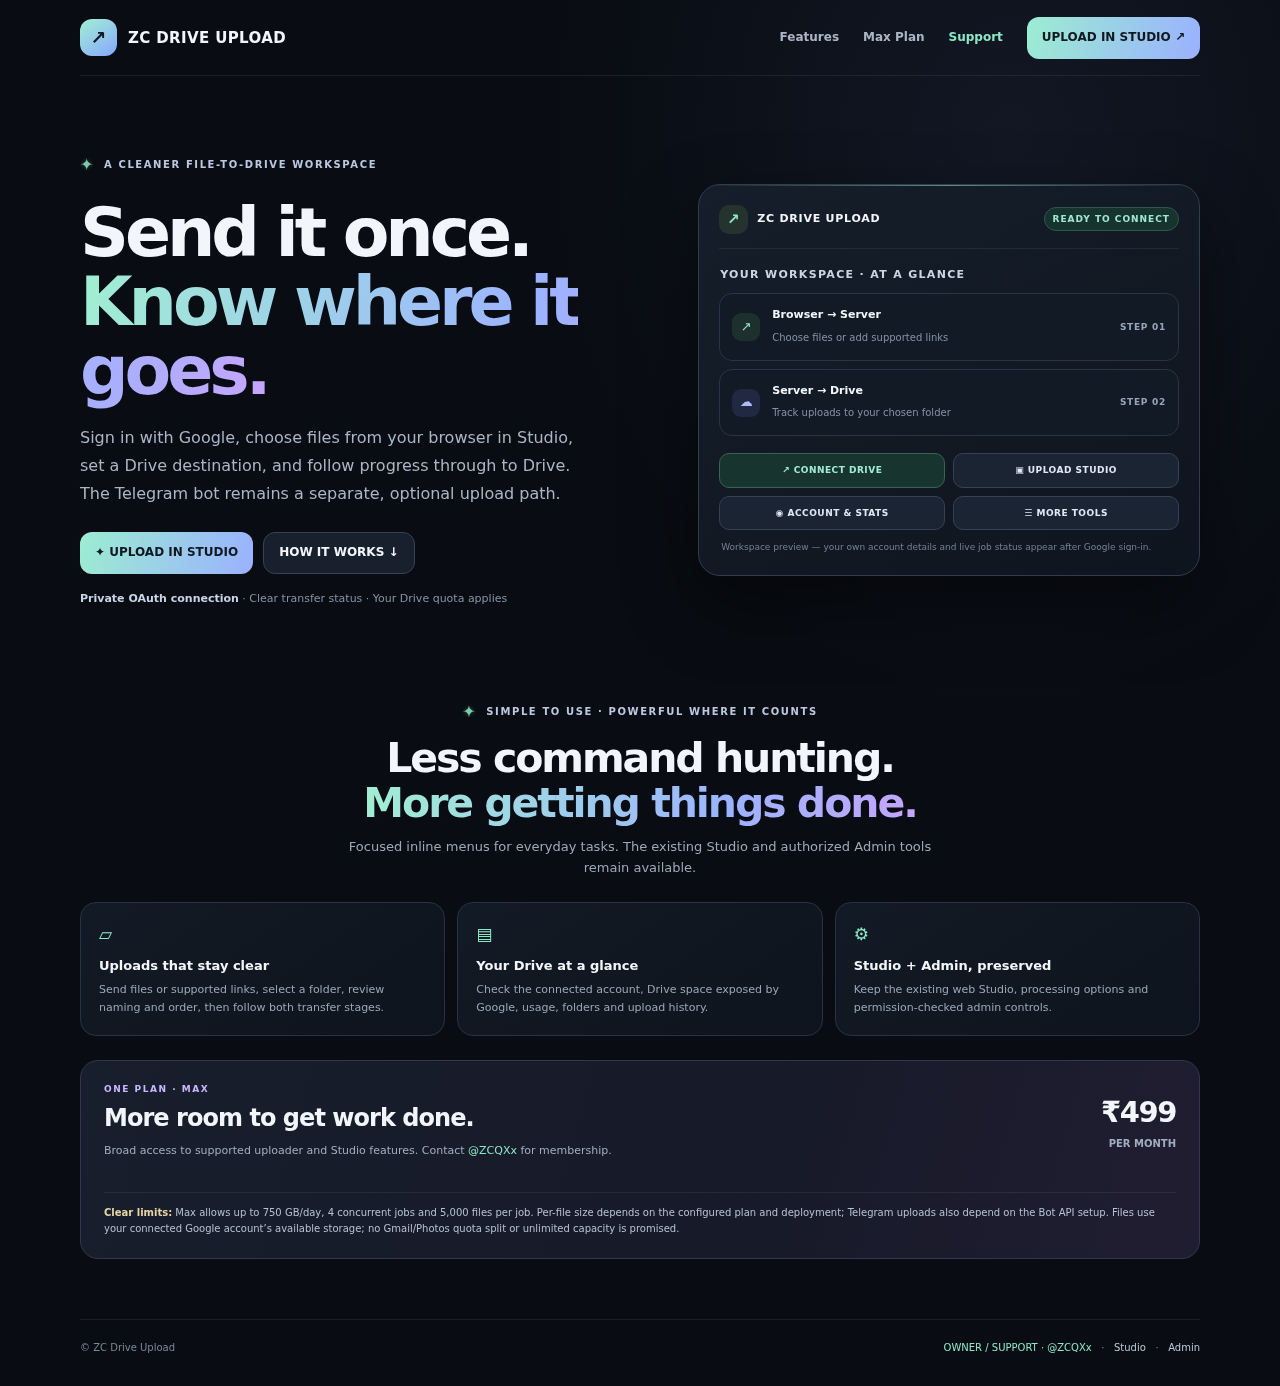
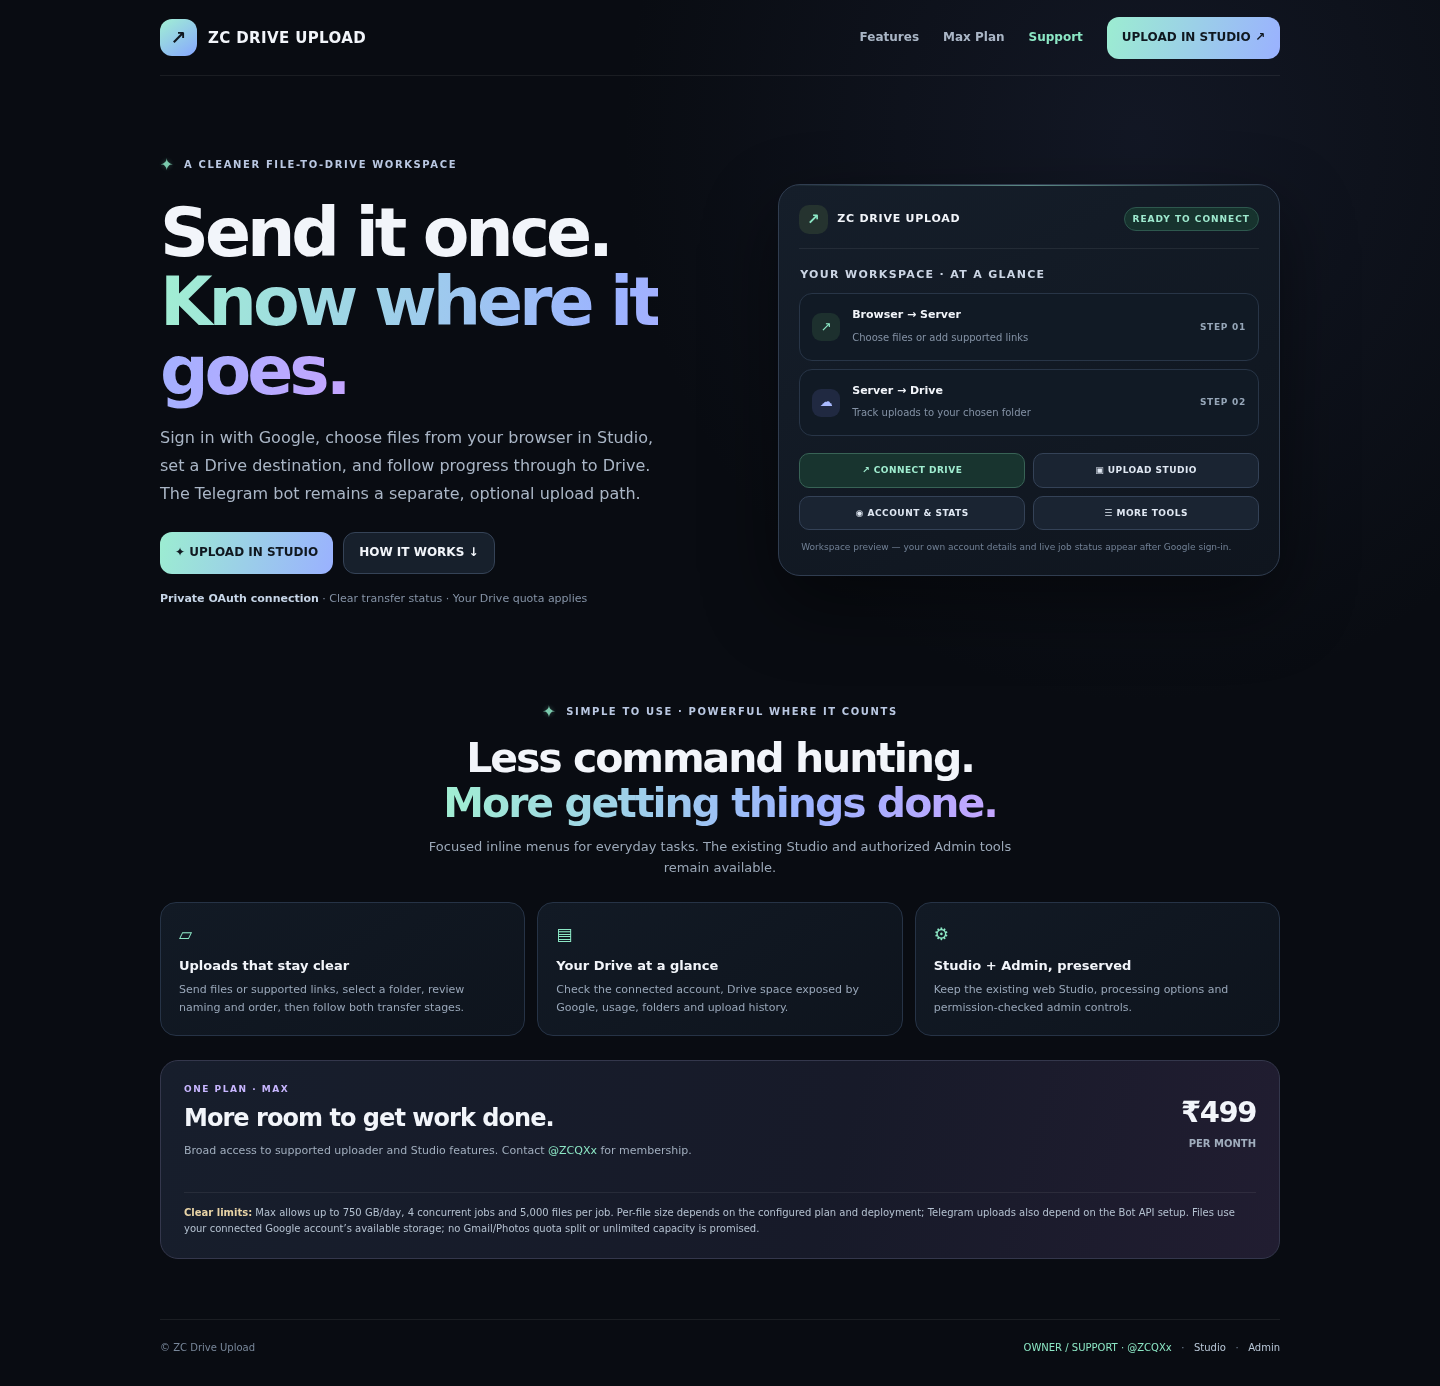
Rebuild from ZC-Drive-Uploader-Private-Studio-v13: / opens Studio, public page moved to /home

diff --git a/driveup/web/app.py b/driveup/web/app.py
@@ -166,14 +166,18 @@ def create_app(*, db, cfg: Settings, bot, worker, accounts, access, hub=None,
             return RedirectResponse("/auth/google/start", status_code=303)
         return RedirectResponse("/auth/google/login", status_code=303)
 
-    @app.get("/", response_class=HTMLResponse)
-    async def index(request: Request):
-        """Public ZC DriveUp homepage, styled after the user's supplied design."""
+    @app.get("/")
+    async def index():
+        """The primary website opens the Studio; authentication protects its data."""
+        return RedirectResponse("/studio", status_code=307)
+
+    @app.get("/home", response_class=HTMLResponse)
+    async def public_home():
+        """Optional public product/plan information; it never contains private data."""
         home = STATIC / "home.html"
         if not home.exists():
             return HTMLResponse(f"<h1>{html.escape(BRAND_NAME)}</h1><a href='/studio'>Open Studio</a>")
-        # Public CTA begins the bot-free Google OAuth login; no Telegram deep-link is needed.
-        body = home.read_text(encoding="utf-8").replace("{{BOT_LINK}}", "/auth/google/login")
+        body = home.read_text(encoding="utf-8").replace("{{BOT_LINK}}", "/studio")
         return HTMLResponse(body, status_code=200)
 
     @app.get("/studio", response_class=HTMLResponse)
@@ -193,8 +197,8 @@ def create_app(*, db, cfg: Settings, bot, worker, accounts, access, hub=None,
               <h1>{html.escape(BRAND_NAME)} Studio</h1>
               <p>Sign in with Google to connect your Drive and open the Studio. You can use the website directly; Telegram is optional.</p>
               <p><a class="btn primary" href="/auth/google/login">Continue with Google Drive</a></p>
-              <p class="hint">Your files remain in the Google account you authorize. The connected Drive quota and service limits still apply.</p>
-              <p><a href="/">Back to ZC Drive Upload</a></p>
+              <p class="hint">Your workspace is tied to your sign-in. Other regular users cannot access your jobs or files; authorized admin roles retain service tools. Google Drive quota and service limits apply.</p>
+              <p><a href="/home">About ZC Drive Upload</a></p>
             </div></div></body></html>"""
             return HTMLResponse(html_body, status_code=200)
         return HTMLResponse((STATIC / "index.html").read_text(encoding="utf-8"))

diff --git a/driveup/tests/test_web.py b/driveup/tests/test_web.py
@@ -109,14 +109,15 @@ async def make_job(web, user_id: int = 55, files=(("a.bin", b"1234"),)) -> str:
 
 
 # ── public pages and auth ──────────────────────────────────────────────────
-async def test_homepage_is_public_and_studio_is_separate(web):
-    r = await web["client"].get("/")
-    assert r.status_code == 200
-    assert "UPLOAD IN STUDIO" in r.text
-    assert 'href="/studio"' in r.text
-    assert "private user" not in r.text.lower()
+async def test_root_opens_studio_and_public_home_is_separate(web):
+    r = await web["client"].get("/", follow_redirects=False)
+    assert r.status_code == 307 and r.headers["location"] == "/studio"
+    home = await web["client"].get("/home")
+    assert home.status_code == 200 and "UPLOAD IN STUDIO" in home.text
+    assert 'href="/studio"' in home.text
     studio = await web["client"].get("/studio")
     assert "Continue with Google Drive" in studio.text
+    assert "Other regular users cannot access your jobs or files" in studio.text
 
 
 async def test_no_session_is_rejected(web):
@@ -554,11 +555,11 @@ async def test_admin_pages_render(web):
 
 
 async def test_homepage_shows_the_zc_driveup_landing_site(web):
-    r = await web["client"].get("/")
+    r = await web["client"].get("/home")
     assert r.status_code == 200
     assert "ZC DRIVE UPLOAD" in r.text and "Send it once." in r.text
     assert "Browser → Server" in r.text and "Server → Drive" in r.text
-    assert 'href="/auth/google/login"' in r.text
+    assert 'href="/studio"' in r.text
     assert "₹499" in r.text and "up to 750 GB/day" in r.text
     assert "/studio" in r.text and "@ZCQXx" in r.text
 

diff --git a/docs/UI-GUIDE.md b/docs/UI-GUIDE.md
@@ -13,7 +13,7 @@
 Button styling is chosen by action type: green/success for connecting or continuing, primary for normal navigation, and destructive for disconnect/discard/remove. Telegram clients may render button colors only when Bot API styles are supported. Animated emoji are separately feature-gated and only displayed where Telegram supports custom emoji; static emoji remain a fallback.
 
 ## Studio and admin
-The public home page routes to `/studio`; signed-out visitors see the existing Google sign-in action. The Studio itself does not add a password prompt. After sign-in, users can choose files from their browser, review folder/naming/order options, start the existing Drive worker, follow live progress, and open their own past uploads. Large selections are sent in sequential 20-file requests and combined into one job; the configured plan still controls the total files/job and per-file size. Browser files are staged under `DOWNLOAD_DIR/studio`; persistent disk is required for safe retries/recovery across restarts. For manual folder routing, choose “Assign consecutive file batches to folders,” enter unique child folder names and file counts, and make the counts add up to the entire job. The backend stores an explicit item-ID-to-folder plan; the worker creates or reuses those folders under the selected parent. The Studio sends the verified-session user identity to server-side ownership checks; browser-provided user IDs are not used. Admin remains protected by the existing authorization mechanisms.
+The primary `/` route opens `/studio`; signed-out visitors see the existing Google sign-in action. Public product/plan information remains available at `/home`. The Studio itself does not add a password prompt. After sign-in, users can choose files from their browser, review folder/naming/order options, start the existing Drive worker, follow live progress, and open their own past uploads. Large selections are sent in sequential 20-file requests and combined into one job; the configured plan still controls the total files/job and per-file size. Browser files are staged under `DOWNLOAD_DIR/studio`; persistent disk is required for safe retries/recovery across restarts. For manual folder routing, choose “Assign consecutive file batches to folders,” enter unique child folder names and file counts, and make the counts add up to the entire job. The backend stores an explicit item-ID-to-folder plan; the worker creates or reuses those folders under the selected parent. The Studio sends the verified-session user identity to server-side ownership checks; browser-provided user IDs are not used. Admin remains protected by the existing authorization mechanisms.
 
 ## Accessibility and QA
 Use readable labels, meaningful status text, keyboard focus visibility, responsive layout, and progress descriptions rather than box-drawing glyphs. Studio progress receives worker chunk checkpoints over SSE, with fresh database totals as a polling fallback; file intake has its own accessible transfer progress bar. Studio history is fetched from a session-scoped API and contains only the signed-in user's jobs. Test narrow/mobile widths, keyboard navigation, connected/disconnected states, invalid links, expired sessions, empty history, upload limits, staged-file cleanup, and unauthorized/cross-user job access.

diff --git a/DEPLOY-ZC.md b/DEPLOY-ZC.md
@@ -70,7 +70,7 @@ These can also be set from the website Admin → Settings. The bot needs post pe
 
 ## 7. Use the website without opening the bot
 
-1. Open the service root URL (`https://YOUR-RENDER-SERVICE.onrender.com/`) and choose **Sign in with Google**. The browser goes through the same Google OAuth callback configured in Step 3; after consent it returns directly to `/studio` with a secure web session.
+1. Open the service root URL (`https://YOUR-RENDER-SERVICE.onrender.com/`); it opens `/studio`. If signed out, choose **Continue with Google Drive**. After consent the browser returns to the private Studio with a secure web session. Public product/plan information remains at `/home`.
 2. The user can upload files from the browser, choose Drive folders, adjust supported naming/order settings, watch progress, and review their upload history without starting a Telegram chat. Large selections are transferred in 20-file chunks and remain one job; manual batch routing can assign exact file counts to named child folders. Google Drive quota, deployment/API ceilings, persistent disk availability for staged uploads, and the user’s plan still apply.
 3. This login does not ask for a separate website password. Google OAuth authorizes the Google account for Drive access. `/connect` also starts this direct web flow.
 4. The Telegram bot remains optional for website-originated uploads. Telegram-message intake, bot notifications, and bot-only commands still inherently use Telegram. The Admin panel keeps its existing protected admin sign-in flow; `/admin` remains permission-checked.

diff --git a/CHANGELOG-WEB.md b/CHANGELOG-WEB.md
@@ -1,6 +1,6 @@
 # Web experience update — 2026-11-18
 
-- Kept the public homepage at `/` and private Studio at `/studio`, preserving the existing visual identity and same-domain route structure.
+- Made `/` open the Studio at `/studio`, as requested; kept the public product/plan page at `/home`. The workspace remains same-domain and account-protected.
 - Repointed homepage CTAs to the Studio and corrected the Studio boot state to describe browser/session startup rather than Telegram connection.
 - Added session-scoped browser file intake at `POST /api/uploads`, with current-user job ownership checks, configured per-file/job/daily limits, staged files, and handoff to the existing Drive worker.
 - Added a private `/api/jobs` history endpoint and a Studio "Past uploads" dialog; users only receive their own job summaries. Cross-user tests cover read, patch, cancel, export, and attempt to append browser files to another user's draft.
